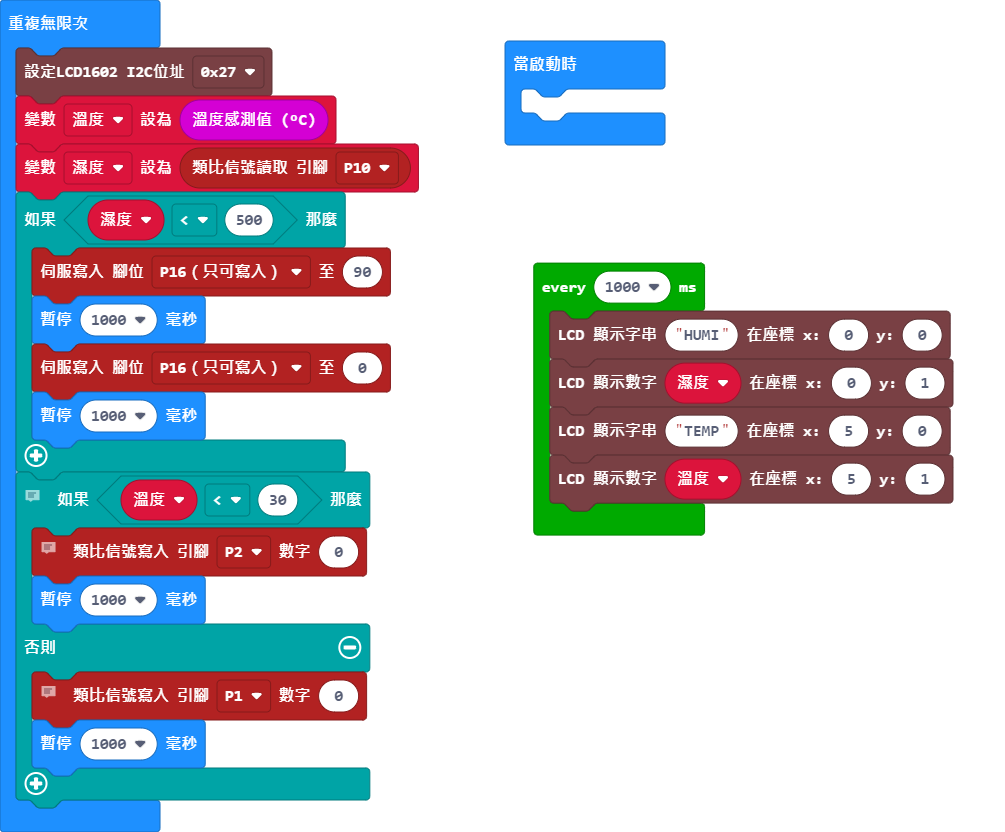
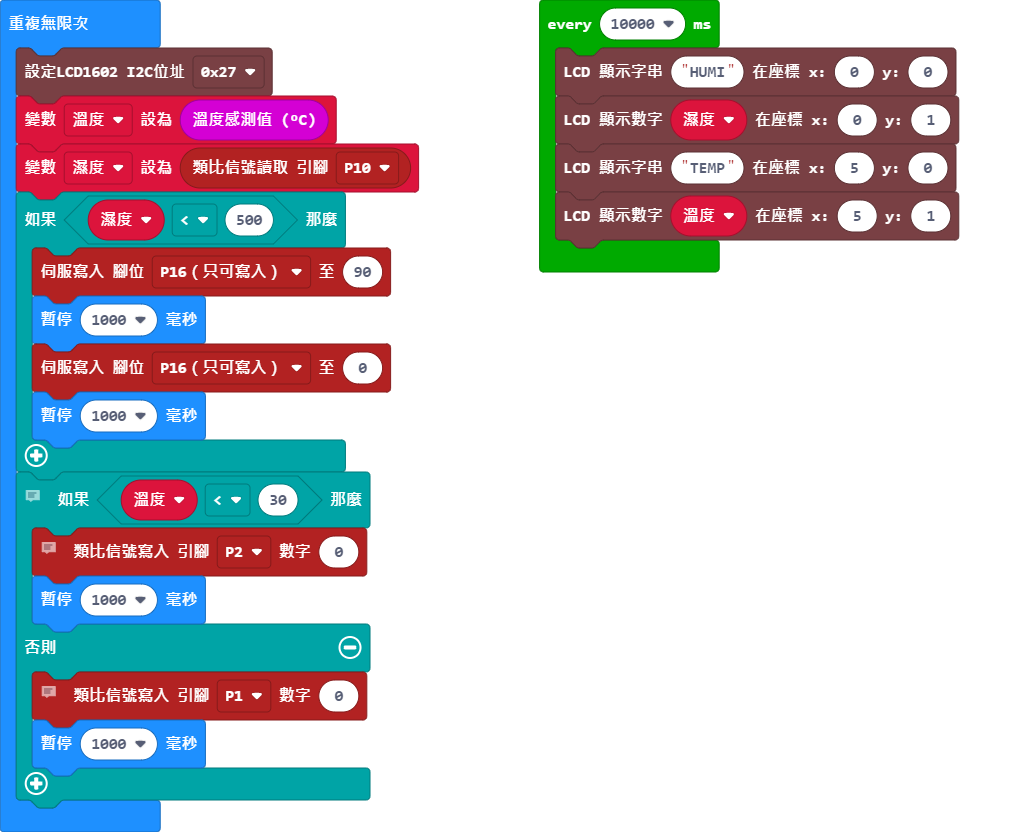
更新 main.blocks, main.ts

diff --git a/main.ts b/main.ts
@@ -1,6 +1,6 @@
 let 濕度 = 0
 let 溫度 = 0
-loops.everyInterval(1000, function () {
+loops.everyInterval(10000, function () {
     lcd1602.putString("HUMI", 0, 0)
     lcd1602.putNumber(濕度, 0, 1)
     lcd1602.putString("TEMP", 5, 0)
